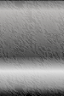
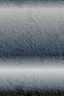
Darkened the header piece, phpdoc file comment header.

diff --git a/www/hndl/create_player.php b/www/hndl/create_player.php
@@ -1,6 +1,6 @@
 <?php
 /**
- * 
+ * Handles creating a new player for a user.
  *
  * @package [Redacted]Me
  * ---------------------------------------------------------------------------
